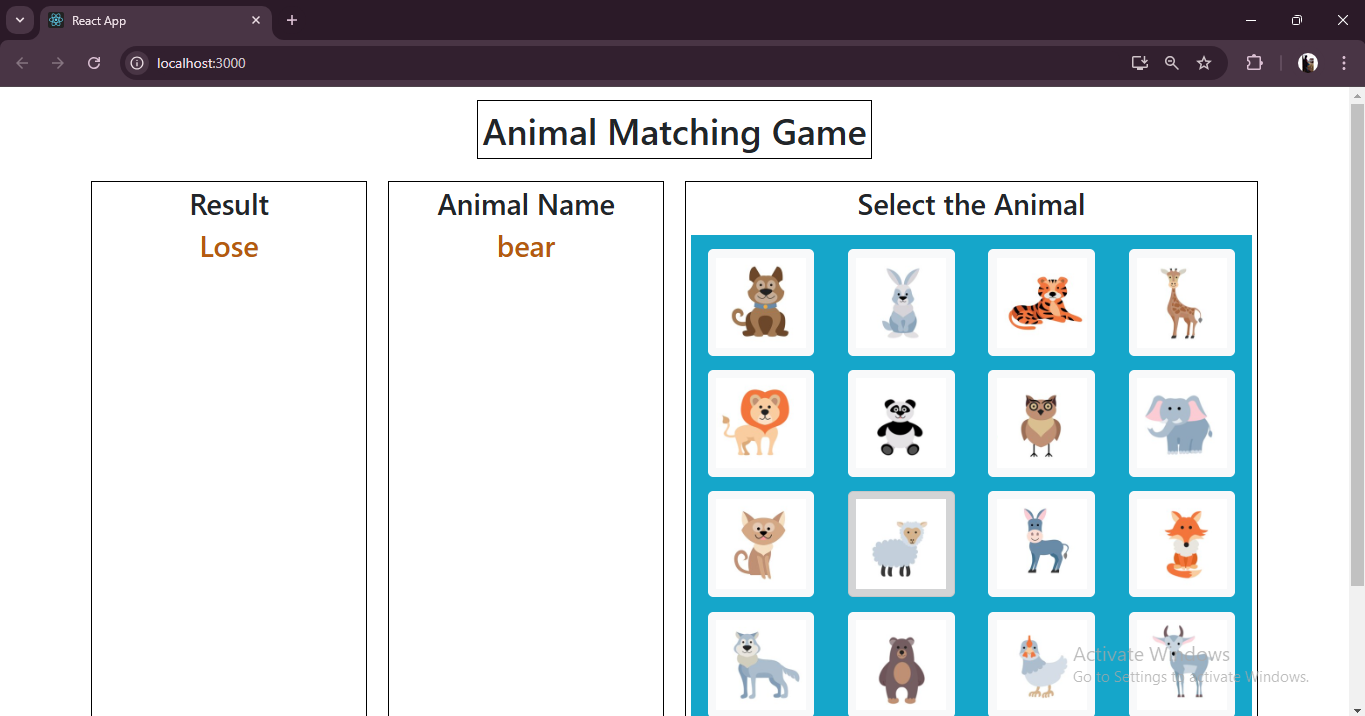
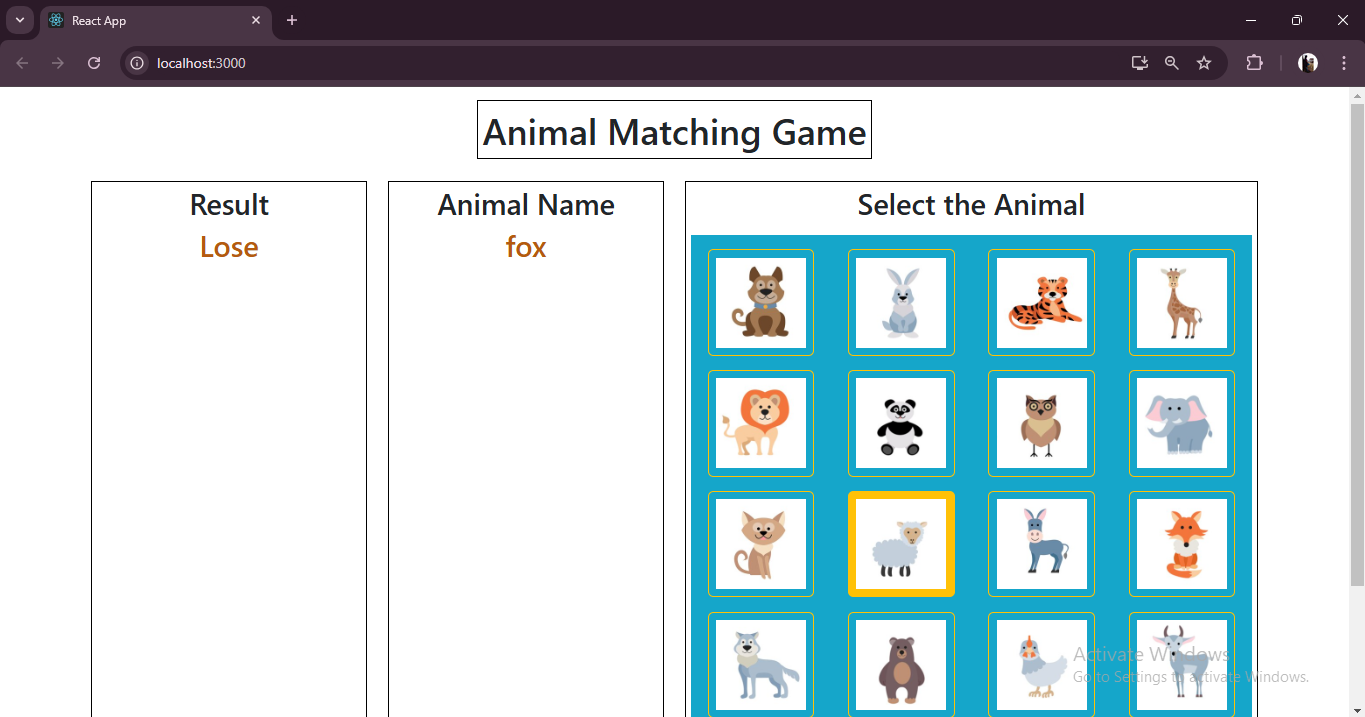
Modifying styles and output images

diff --git a/assignment4/src/components/Select.js b/assignment4/src/components/Select.js
@@ -9,7 +9,7 @@ export default function Select({ animals,selection }) {
         {   
             animals.map((animal) => (
                 <Col xs={6} md={3} className="text-center">
-                    <Button variant="light" className="p-2"
+                    <Button variant="outline-warning" className="p-2"
                             onClick={()=>selection(animal.name)}>
                         <img
                             src={require(`../assets/fig/${animal.img}`)}
